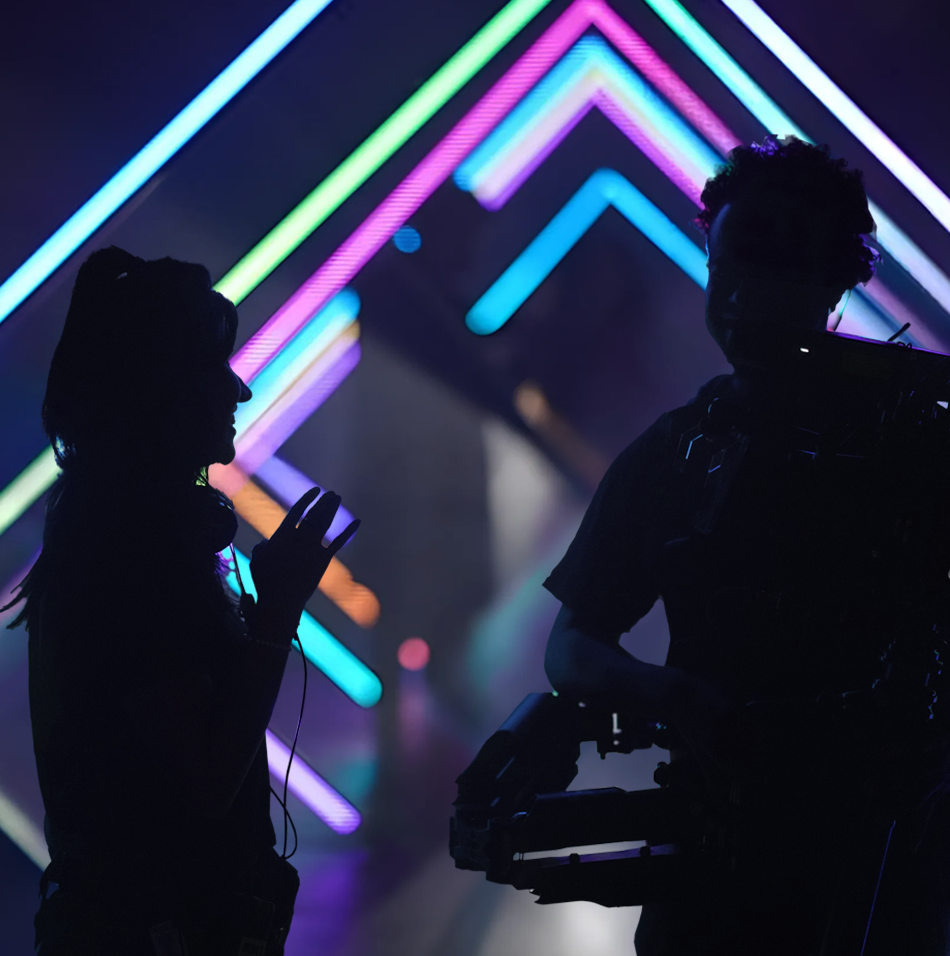
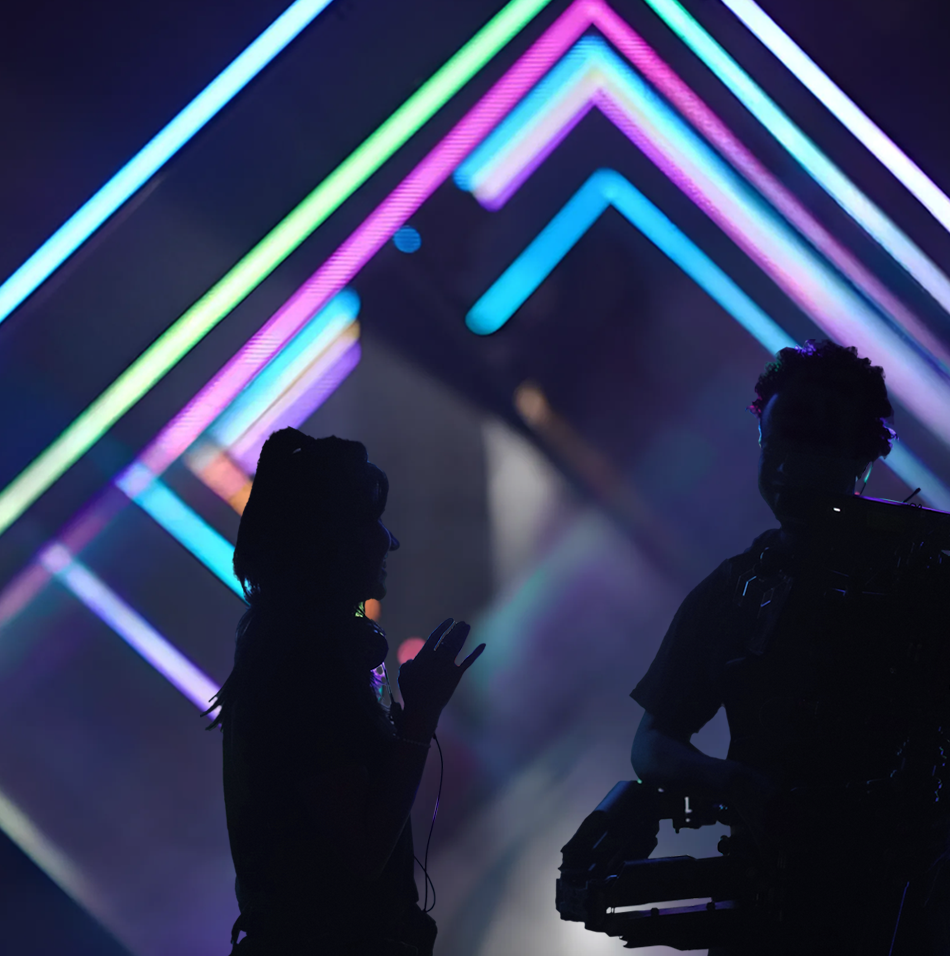
Staff section background

diff --git a/public/css/homeDesktop.css b/public/css/homeDesktop.css
@@ -31,7 +31,7 @@
 }
 
 .parallax-section > .bg-img-staff {
-    background-image: url("/img/fotos version 1900x--/fotos seccion1 web T2F/nuestro equipo.png");
+    background-image: url("/img/fotos version 1900x--/fotos seccion1 web T2F/fondo nuestro equipo.png");
     background-position: right center;
 }
 
@@ -51,6 +51,10 @@
 
 .parallax-section > .bg-img-partners.focus, .parallax-section > .bg-img-partners:hover {
     background-image: url("/img/fotos version 1900x--/fotos seccion1 web T2F/aliados silla.png");
+}
+
+.parallax-section > .bg-img-partners.focus, .parallax-section > .bg-img-staff:hover {
+    background-image: url("/img/fotos version 1900x--/fotos seccion1 web T2F/nuestro equipo.png");
 }
 
 .reel {
